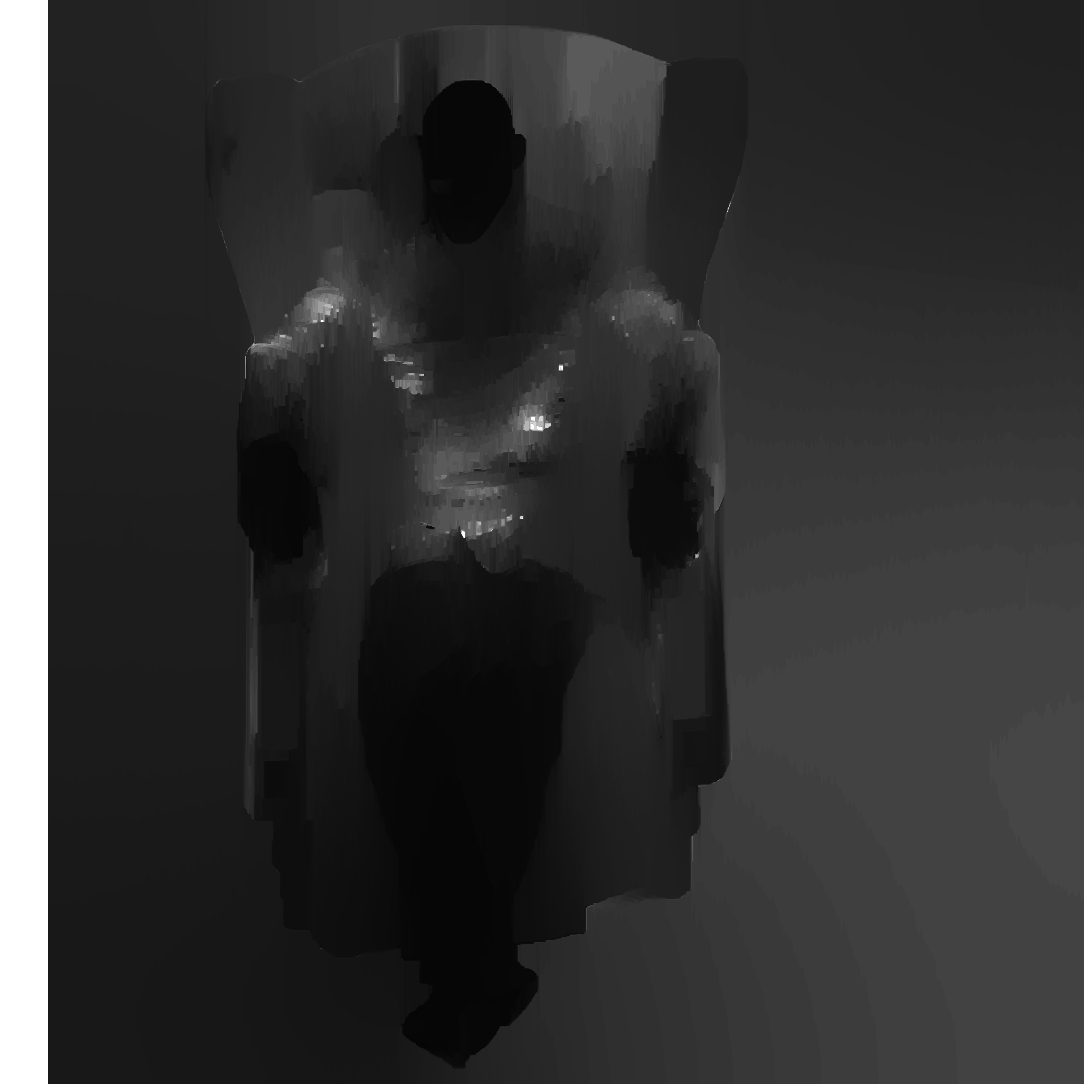
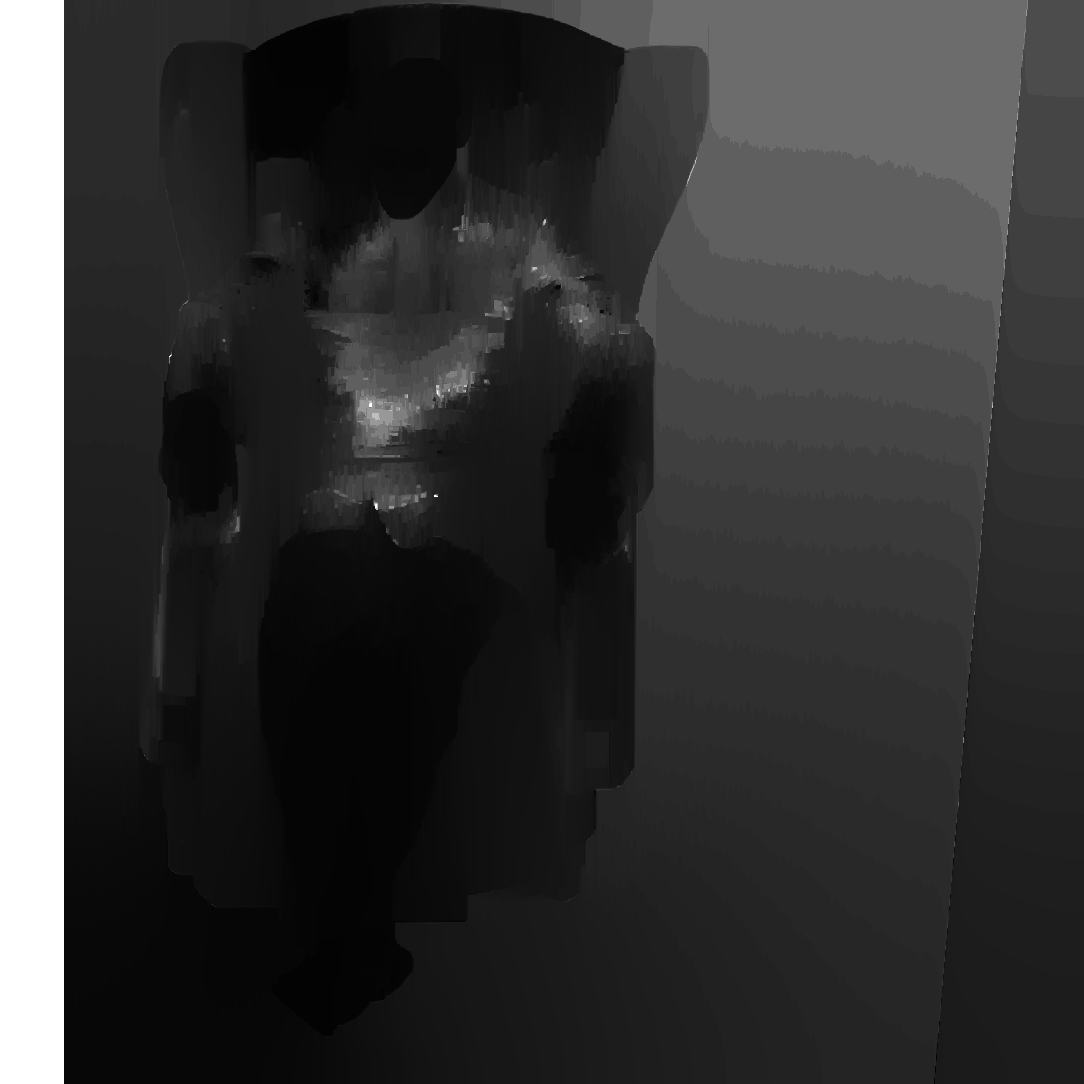
Adicionei uma nova função para retificar as imagens e modifiquei a função para calcular rotação e translação relativa entre as câmeras.

diff --git a/Visao_Estereo/src/functions.py b/Visao_Estereo/src/functions.py
@@ -306,25 +306,97 @@ def image_rectify(imgL, imgR):
 
 	return crop_imgL, crop_imgR
 
-def calculate_baseline(calibL, calibR):
+def calculate_relative(calibL, calibR):
+# Compute the relative rotation and translation between the cameras
+# Based on opencv tutorial: https://docs.opencv.org/master/d9/dab/tutorial_homography.html
+
 	r_vecL, t_vecL = extrinsic_parameters(calibL)
 	r_vecR, t_vecR = extrinsic_parameters(calibR)
 	
-	newR_vecL = np.zeros((1,3))
-	newR_vecR = np.zeros((1,3))
+	r_vecL_transp = np.transpose(r_vecL)
+	r_diff = np.matmul(r_vecR, r_vecL_transp)
+	t_diff = np.matmul(r_vecR, np.matmul(-r_vecL_transp, t_vecL)) + t_vecR
 
-	newt_vecL = newR_vecL
-	newt_vecR = newR_vecR
+	# Based on stack overflow question: https://stackoverflow.com/questions/38737960/finding-relative-rotation-between-two-cameras
+	# r_vecL_inv = np.linalg.inv(r_vecL)
+	# r_diff = np.matmul(r_vecL_inv, r_vecR)
+	# t_diff = np.matmul(r_vecL, (t_vecR - t_vecL))
 
-	newt_vecL = np.array([t_vecL[0], t_vecL[1], t_vecL[2]])
-	newt_vecR = np.array([t_vecR[0], t_vecR[1], t_vecR[2]])
+	# Show the baseline between the the cameras
+	baseline = np.linalg.norm(t_diff)
+	print('Baseline: ', baseline, flush=True)
 
-	newR_vecL, _ = cv.Rodrigues(r_vecL)
-	newR_vecR, _ = cv.Rodrigues(r_vecR)
+	return r_diff, t_diff
 
-	rvec, tvec, _, _, _, _, _, _, _, _, = cv.composeRT(newR_vecL.ravel(), newt_vecL.ravel(), newR_vecR.ravel(), newt_vecR.ravel())
+def rectify_images(imgL, imgR, calibL, calibR):
+# Function to rectify the images
+
+	# Calculate the instrinsic matrix
+	matrixK_L = intrinsic_matrix(calibL)
+	matrixK_R = intrinsic_matrix(calibR)
+
+	# Calculate the rotation and translation vector relative
+	r_vecL, t_vecL = extrinsic_parameters(calibL)
+	r_vecR, t_vecR = extrinsic_parameters(calibR)
 	
-	print('vet_rot: \n', rvec, flush=True)
-	baseline = np.linalg.norm(tvec)
+	extrinsic_L = np.column_stack((r_vecL, t_vecL))
+	extrinsic_R = np.column_stack((r_vecR, t_vecR))
 
-	return baseline
+	# matrixP_L = np.matmul(matrixK_L, extrinsic_L)
+	# matrixP_R = np.matmul(matrixK_R, extrinsic_R)
+
+	R, T = calculate_relative(calibL, calibR)
+
+	# Manipulate the cx parameter to control image crop
+	# Based on: https://stackoverflow.com/questions/53701924/how-can-you-rectify-cropped-stereo-images-in-opencv	
+	matrixK_R[0][2] = matrixK_R[0][2]/1000
+	matrixK_L[0][2] = 2*matrixK_L[0][2]
+
+	h, w, _ = imgL.shape
+	# Calculate new parameters of rotation and projection
+	# https://docs.opencv.org/3.4/d9/d0c/group__calib3d.html#ga617b1685d4059c6040827800e72ad2b6
+	R1, R2, P1, P2, Q, Roi1, Roi2 = cv.stereoRectify(matrixK_L, None, matrixK_R, None, (h, w), R, T)
+	
+	diagonal = int(np.sqrt(imgL.shape[1]**2 + imgL.shape[0]**2))
+	black_img = np.uint8(np.full((diagonal, diagonal, 3), 0))
+
+	yoff = round((diagonal-imgL.shape[0])/2)
+	xoff = round((diagonal-imgL.shape[1])/2)
+
+	# Attempt to rotate without cropping
+	# Based on: https://stackoverflow.com/questions/30719870/rotate-image-without-cropping-opencv/30723799
+	# use numpy indexing to place the resized image in the center of black image
+	# result = black_img.copy()
+	# result2 = black_img.copy()
+	# result[yoff:yoff+imgL.shape[0], xoff:xoff+imgL.shape[1]] = imgL
+	# result2[yoff:yoff+imgL.shape[0], xoff:xoff+imgL.shape[1]] = imgR
+	
+	# cv.namedWindow('black', cv.WINDOW_NORMAL)
+	# cv.resizeWindow('black', (600, 500))
+	# cv.imshow('black', result)
+	# cv.waitKey(0)
+	# cv.destroyAllWindows()
+
+	# new_camera_L, roi = cv.getOptimalNewCameraMatrix(matrixK_L, 0, (1200,1200), 1)
+	# new_camera_R, roi = cv.getOptimalNewCameraMatrix(matrixK_R, 0, (1200,1200), 1)
+
+	# Computes the undistortion and rectification transformation map
+	# https://docs.opencv.org/3.4/da/d54/group__imgproc__transform.html#ga7dfb72c9cf9780a347fbe3d1c47e5d5a
+	mapL = cv.initUndistortRectifyMap(matrixK_L, None, R1, P1, (imgL.shape[1], imgL.shape[0]), cv.CV_16SC2)
+	mapR = cv.initUndistortRectifyMap(matrixK_R, None, R2, P2, (imgL.shape[1], imgL.shape[0]), cv.CV_16SC2)
+
+	# Remap the images
+	new_imgL = cv.remap(imgL, mapL[0], mapL[1], cv.INTER_LANCZOS4)
+	new_imgR = cv.remap(imgR, mapR[0], mapR[1], cv.INTER_LANCZOS4)
+
+	cv.namedWindow('imgL_name', cv.WINDOW_NORMAL)
+	cv.resizeWindow('imgL_name', (439, 331))
+	cv.namedWindow('imgR_name', cv.WINDOW_NORMAL)
+	cv.resizeWindow('imgR_name', (439, 331))
+
+	cv.imshow('imgL_name', new_imgL)
+	cv.imshow('imgR_name', new_imgR)
+	cv.waitKey(0)
+	cv.destroyAllWindows()
+
+	return new_imgL, new_imgR

diff --git a/Visao_Estereo/src/visao_estereo.py b/Visao_Estereo/src/visao_estereo.py
@@ -66,13 +66,17 @@ def second_requirement():
 
 	calib_dataL = f.data_reader(os.path.join(data, 'MorpheusL.txt'))
 	calib_dataR = f.data_reader(os.path.join(data, 'MorpheusR.txt'))
-	
+		
 	imgL = f.resize_image(imgL, imgR)
 	new_imgL, new_imgR = f.image_rectify(imgL, imgR)
 
-	# Calcula o mapa de disparidade e de profundidade #
+	new_imgL, new_imgR = f.rectify_images(imgL, imgR, calib_dataL, calib_dataR)
+	
+	# new_imgL, new_imgR = f.image_rectify(new_imgL, new_imgR)
+
+	# Calcula o mapa de disparidade e de profundidade
 	print('Calculating disparity map...', flush=True)
-	filteredImg = f.disparity_calculator(new_imgL, new_imgR, 0, 16*3)
+	filteredImg = f.disparity_calculator(new_imgL, new_imgR, 0, 16*4)
 
 	# Redimensiona a imagem para uma melhor visualização
 	cv.namedWindow('filtered', cv.WINDOW_NORMAL)
@@ -94,10 +98,7 @@ def second_requirement():
 
 	print('Baseline for MorpheusL image can be estimated as: ', base_line, flush=True)
 	
-	baseline = f.calculate_baseline(calib_dataL, calib_dataR)
-	print('Minha baseline: ', baseline, flush=True)
-	
-	print('Calculating depth map...', flush=True)
+	#print('Calculating depth map...', flush=True)
 	f.image_depth(filteredImg, focal_length, base_line, os.path.join(data,'profundidade.png'))
 
 	#f.world_coordinates(filteredImg, calib_data)
